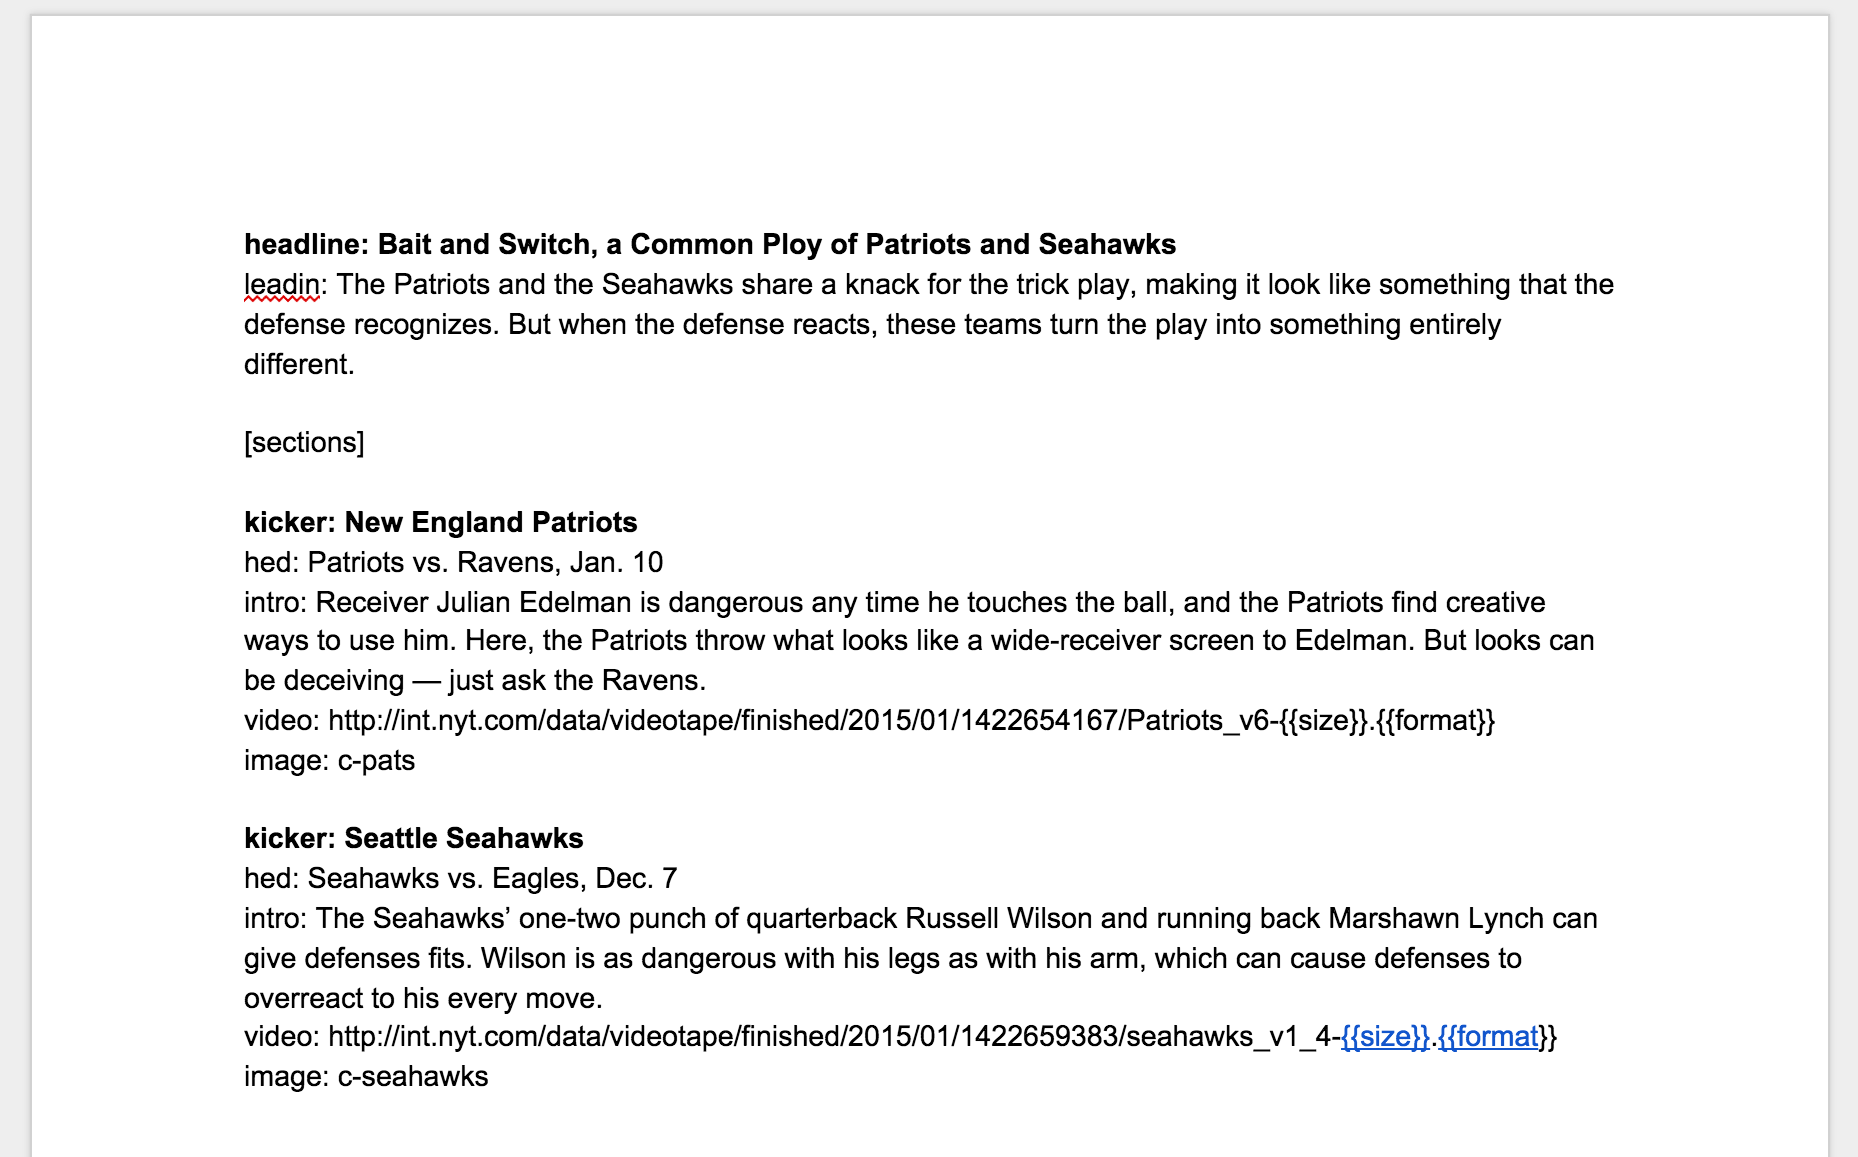
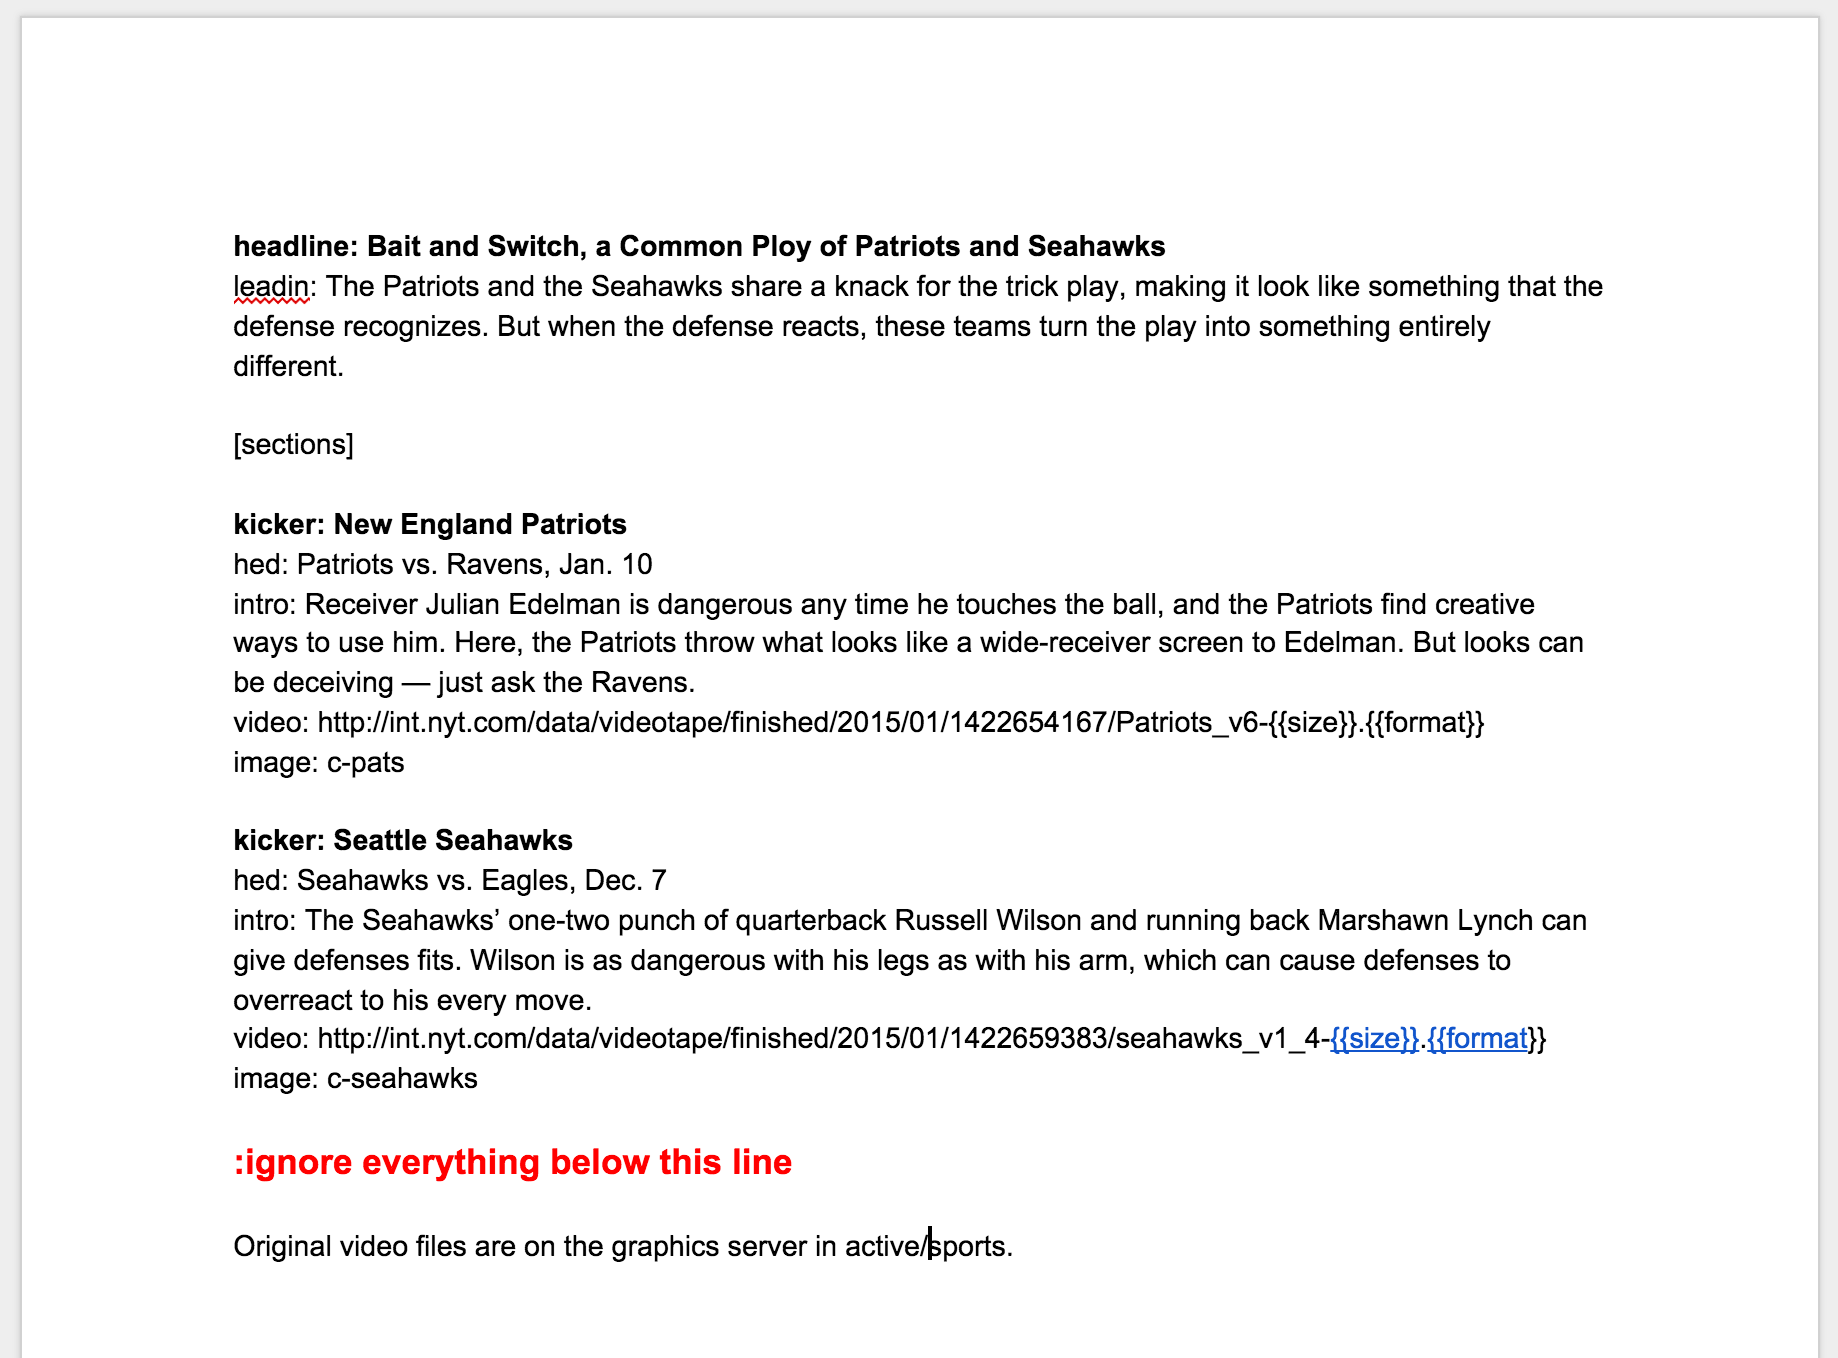
Better screenshot.

diff --git a/index.html b/index.html
@@ -95,7 +95,7 @@
 
   <p>To generate the graphic, we load the ArchieML data from the document using the <a href="https://www.npmjs.com/packages/archieml-js">archieml-js npm module</a>, then pass it to an underscore template to render the final markup server-side. This lets the journalists who are focusing on the text and content concentrate on getting the copy in shape independently of the developers working on the graphic.</p>
 
-  <p>While this is a very simple example, with only a few bits of text and data, we're covering a breaking news story, we can have a half-dozen people all contributing to a Google Doc at the same time as we gather all the information we need for a graphic and turn it into the final copy blocks that make their way into the finished piece.</p>
+  <p>While this is a very simple example, with only a few bits of text and data and one comment at the end that is ingore, we're covering a breaking news story, we can have a half-dozen people all contributing to a Google Doc at the same time as we gather all the information we need for a graphic and turn it into the final copy blocks that make their way into the finished piece.</p>
 
 
   <h2 id="resources">Resources</h2>
